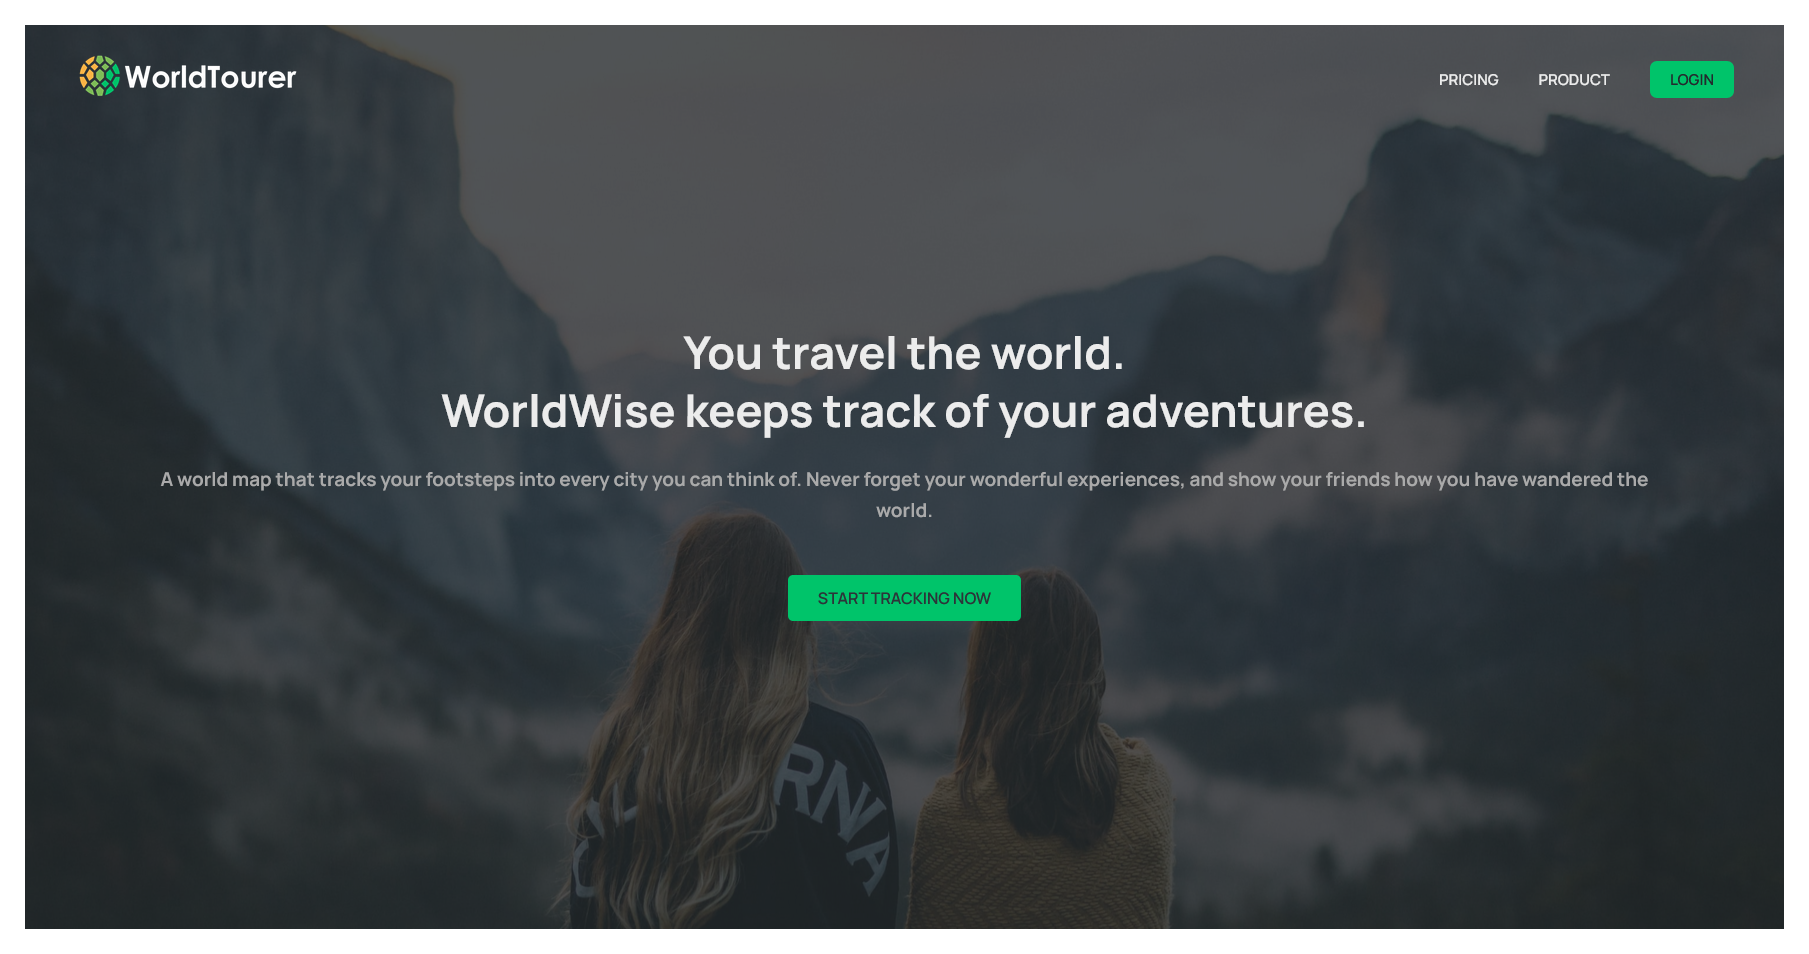
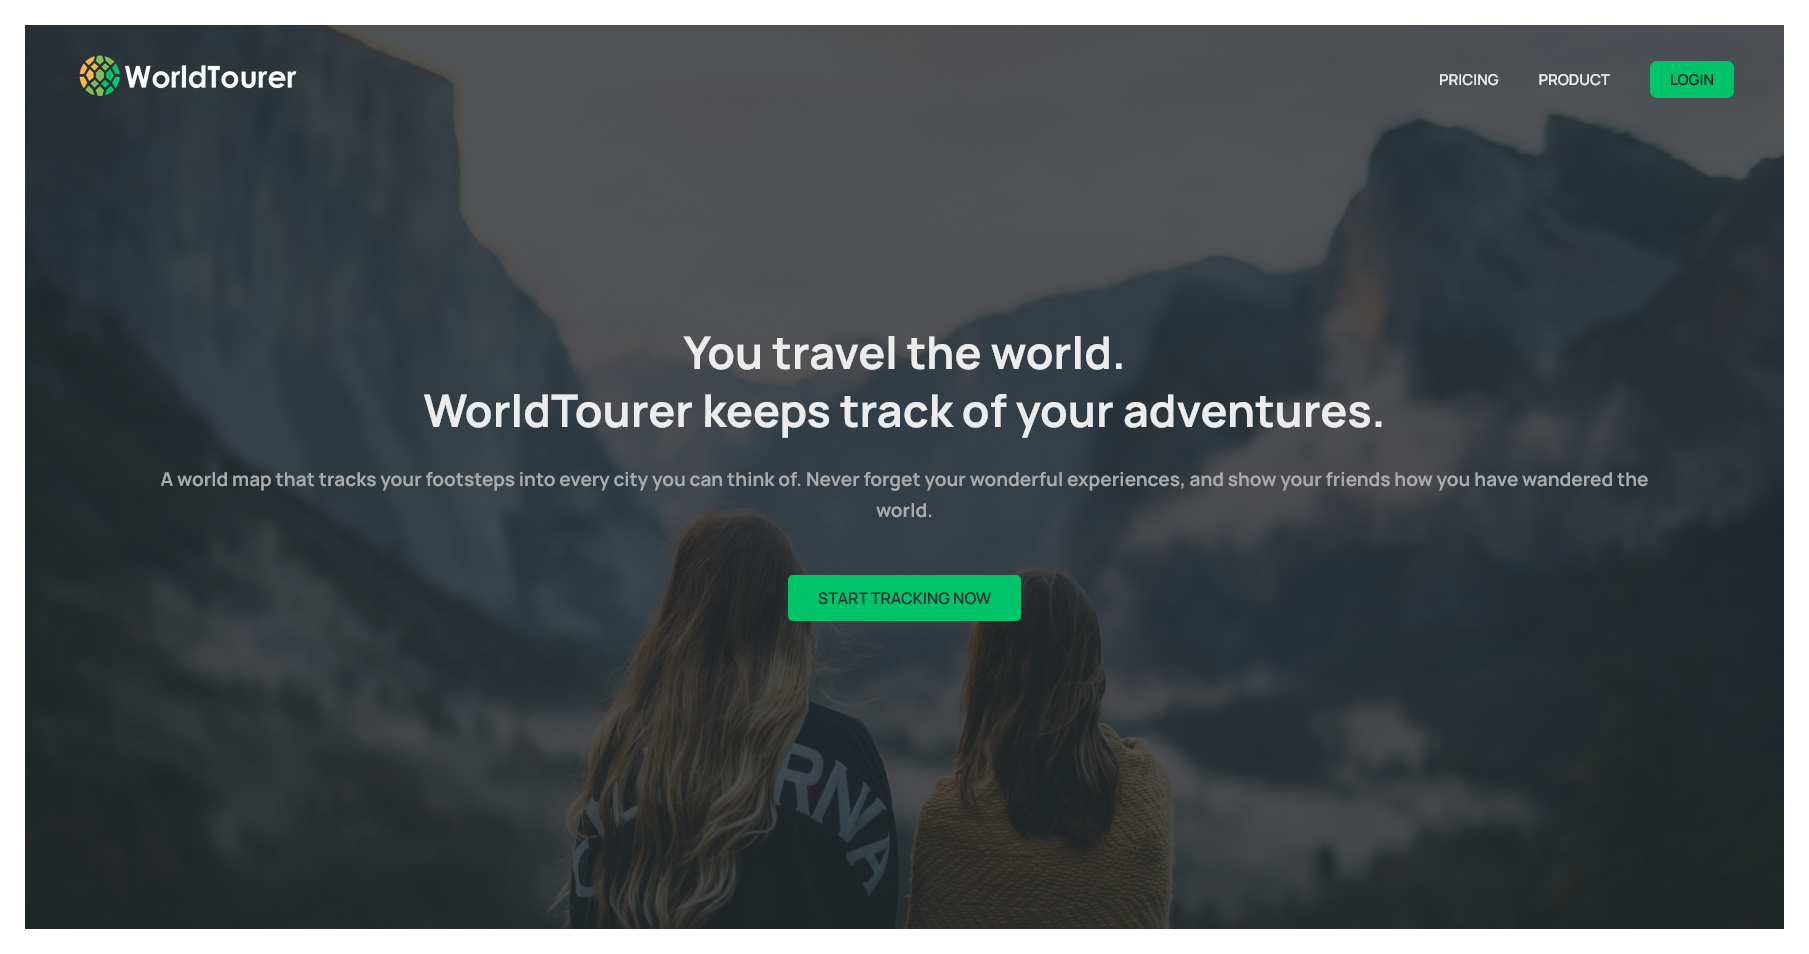
rename title over home page

Changed region(s): [[0.2167, 0.3952, 0.7739, 0.456]]

diff --git a/src/pages/Homepage.jsx b/src/pages/Homepage.jsx
@@ -10,7 +10,7 @@ export default function Homepage() {
         <h1>
           You travel the world.
           <br />
-          WorldWise keeps track of your adventures.
+          WorldTourer keeps track of your adventures.
         </h1>
         <h2>
           A world map that tracks your footsteps into every city you can think
